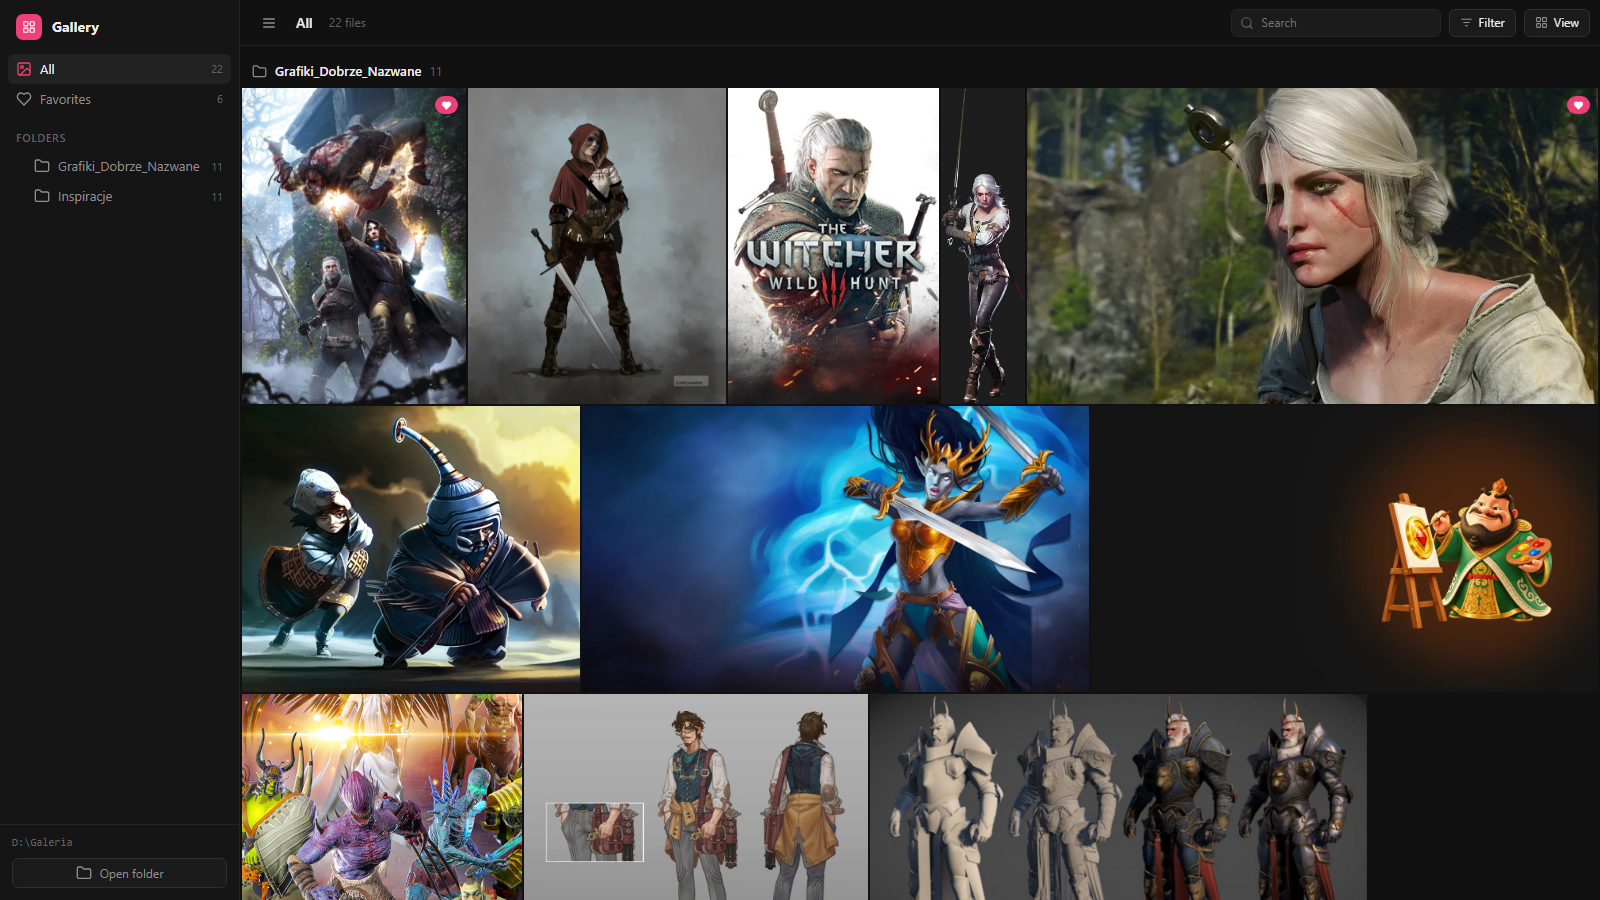
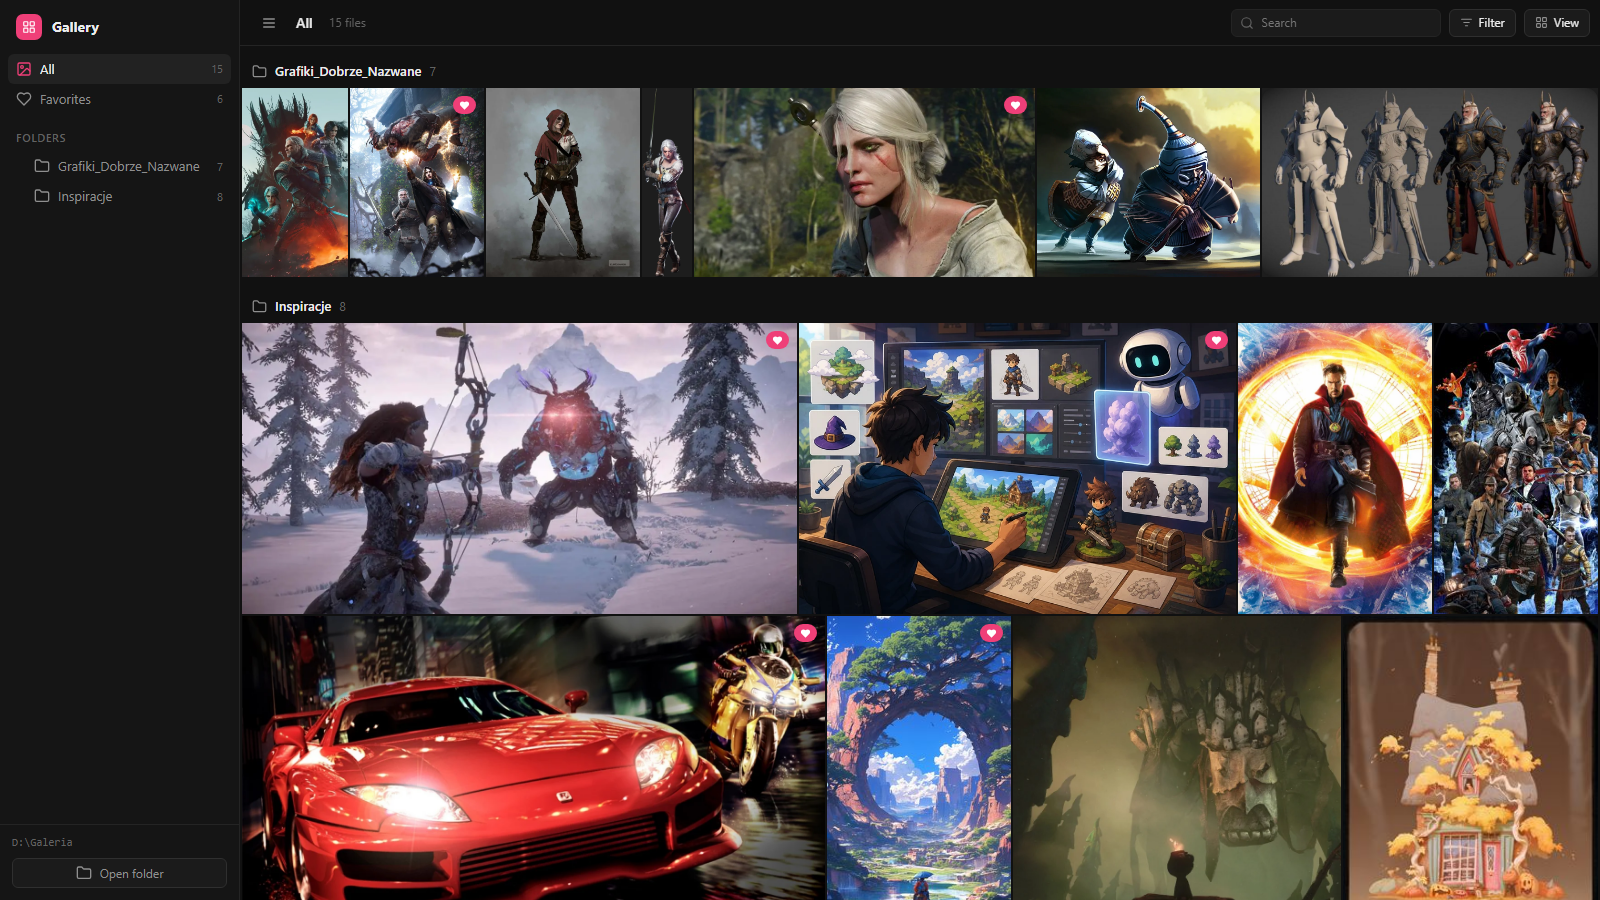
Update screenshot and add third-party content notice
State that the project is unofficial and not affiliated with CD PROJEKT RED,
that the artwork in the screenshot belongs to its owners, and that the MIT
license covers only the source code.

diff --git a/README.md b/README.md
@@ -9,7 +9,14 @@ of AI-generated images and videos, and it works for any media folder.
 npx local-gallery ~/Pictures/renders
 ```
 
-![local-gallery showing two folders of character concept art in a justified grid](docs/screenshot.png)
+![local-gallery showing two folders of game and film artwork in a justified grid](docs/screenshot.png)
+
+> **Unofficial project.** local-gallery is not an official CD PROJEKT RED product
+> and is not affiliated with, endorsed or sponsored by CD PROJEKT RED. The
+> screenshot shows the author's private reference folder. The Witcher artwork
+> and trademarks in it belong to CD PROJEKT RED. All other games, films,
+> characters and images shown belong to their respective owners. See
+> [Third-party content](#third-party-content).
 
 ## Features
 
@@ -120,6 +127,23 @@ npm start -- /path/to/images
 There are no dependencies and no build step. See [AGENTS.md](AGENTS.md) for the
 code layout and project rules.
 
+## Third-party content
+
+local-gallery is an independent, unofficial project. It is not affiliated
+with, endorsed or sponsored by CD PROJEKT RED or any other company whose work
+appears in the screenshot.
+
+- The Witcher, its artwork, characters and logos are trademarks and
+  copyrighted works of CD PROJEKT RED. They appear in `docs/screenshot.png` only
+  to illustrate how the gallery displays a folder of images.
+- All other trademarks, characters and images visible in the screenshot belong
+  to their respective owners.
+- No game files or game artwork are distributed with the package. The npm
+  package contains only the source code.
+
 ## License
 
-[MIT](LICENSE)
+The [MIT License](LICENSE) covers **only the source code** of this repository
+(`bin/`, `src/`, `public/`, `test/`, `skills/` and the documentation text). It
+does **not** cover the third-party artwork shown in `docs/screenshot.png`, which
+remains the property of its owners and is not licensed for reuse.
